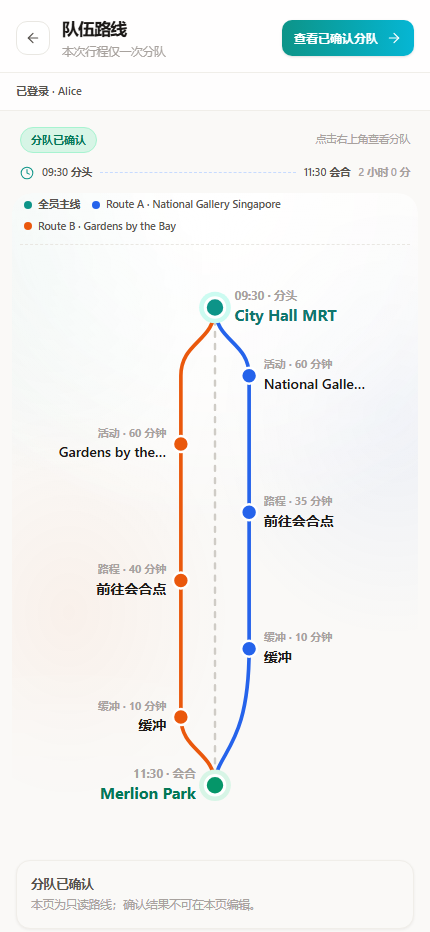
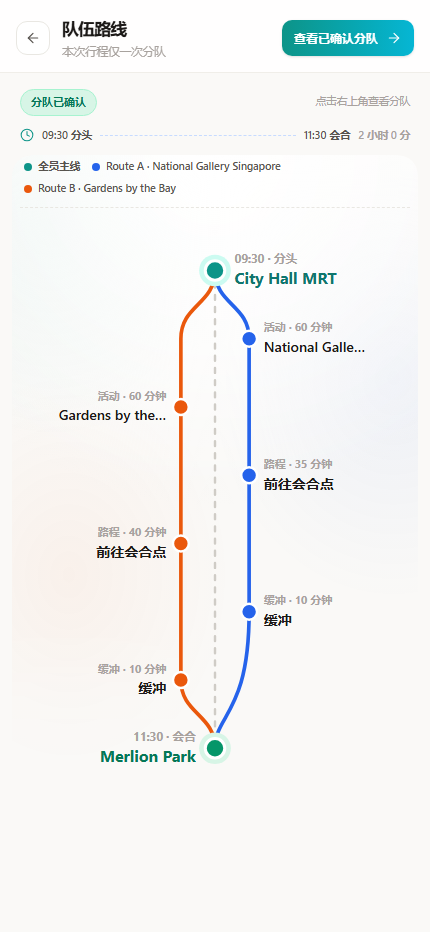
fix(us-086): polish split flow chrome and confirmed review

diff --git a/frontend/src/features/split/split-layout.tsx b/frontend/src/features/split/split-layout.tsx
@@ -2,7 +2,6 @@ import type { ReactNode } from "react"
 import { useNavigate } from "react-router-dom"
 import { StepBar } from "@/components/ui/step-bar"
 import { IconArrowLeft } from "@/components/icons"
-import { useAuth } from "@/features/auth/AuthProvider"
 
 /**
  * Split-flow app shell (ui-design-reference three-part skeleton: appbar -> body -> actionbar).
@@ -28,7 +27,6 @@ export function SplitLayout({
   children: ReactNode
 }) {
   const navigate = useNavigate()
-  const { account } = useAuth()
   return (
     <div className="flex min-h-screen justify-center bg-bg">
       <div className="flex h-screen w-full max-w-[440px] flex-col overflow-hidden bg-surface-2 shadow-[0_0_40px_rgba(28,25,23,0.06)]">
@@ -54,10 +52,6 @@ export function SplitLayout({
           </div>
           {step != null ? <StepBar step={step} className="mt-3" /> : null}
         </header>
-
-        <div className="flex-none border-b border-line-2 bg-surface/70 px-4 py-2.5 text-[11px] font-semibold text-ink-2">
-          已登录 · {account?.name ?? "账号"}
-        </div>
 
         <main className="flex-1 overflow-y-auto px-4 pt-4 pb-6">{children}</main>
 

diff --git a/frontend/src/features/split/screen-confirm.tsx b/frontend/src/features/split/screen-confirm.tsx
@@ -64,7 +64,7 @@ export function ScreenConfirm() {
       title="复核并确认分队"
       subtitle="服务端重校验通过后成对生效"
       step={4}
-      backTo={`/trips/${tripId}/split/timing`}
+      backTo={status === "confirmed" ? undefined : `/trips/${tripId}/split/timing`}
       right={
         <Badge variant={status === "confirmed" ? "ok" : status === "cancelled" ? "warn" : "brand"}>
           {status === "confirmed" ? "已确认" : status === "cancelled" ? "已取消" : "待确认"}

diff --git a/requirement-workspace/registry.md b/requirement-workspace/registry.md
@@ -124,4 +124,4 @@ REQ-019 的状态列与 change 路径已按归档更新；REQ-020/024/026 仍待
 | US-072 | 行程详情增加主线方案入口 | **Archived 2026-11-16；G1/G2/G3 全 Pass**：Delta 1 ADDED req / 5 scenarios（openspec validate valid，1 非阻塞 spec-length WARNING）；**G1 Pass**（IO Leo + SA Lumi）；P3 三件套 + 对齐自检 5/5 Pass；P4 仅命中 `TripDetails.tsx` +10 行，`npm run build`（tsc+vite）零错误；**E2E E1–E7 全 7/7 Pass**（`docs/feedback/e2e-us-072.md`）；local-verify **Overall Pass**（V1–V8，白名单 5/6，1 失败为环境类 PyYAML quirk；`20261116-210810`）；**G2 Pass**（VL ELIAN）；P5 living-merge 已合入 Living Spec（`trips` +1 requirement）+ change-summary；**G3 Pass**（SA Lumi）。代码合入 main 待人工按分支约定执行 | `openspec/changes/archive/2026-11-16-us-072-trip-detail-main-plan-entry/` | 纯前端入口故事：TripDetails.tsx 在 InvitationPanel 与分队规划 section 之间新增“查看主线方案”卡片链接到 `#/trips/{id}/main-plan`。无后端/路由/新页面/新依赖变更；复用 US-031-037 已归档的 main-itinerary 查看能力与权限。OQ-1（图标）P4 采用 `Icon name="sparkle"`。影响方向 extend。未触发远程 CI（纯前端极小改动，残余风险 accepted）。 |
 | REQ-009 | My Account、退出登录与注册（US-068 + US-069 + US-070） | **Archived 2026-11-17；G1 Pass**（IO Emily + SA Elian Jiang）；**G2 Pass（VL lumi）**；**G3 Pass（SA Elian Jiang）**；PR #101 merged `3334e7d`，PR #103 merged `37f4ceb`；US-068/069/070 看板卡 #40/#41/#43 Done | `openspec/changes/archive/2026-11-17-us-068-070-account-register/` | 单 change 覆盖三卡；auth 3 ADDED + 3 MODIFIED、app-shell 4 MODIFIED（60 场景）；无新迁移。用户 2026-11-17 UI 修正：注册页/我的页按参考稿；重复邮箱改为 `409 EMAIL_TAKEN` + 注册页弹窗（覆盖原隐私不披露 AC，接受邮箱枚举风险，IO 复核待补）。合并 origin/main 后后端 **279/279**、前端 build 绿、浏览器 E2E 18 Pass/1 Skipped、local-verify Pass；分支 `US-068-070-account-register`，PR #101（待合并）；local-verify + CI 均 Pass。US-068 卡仍指派 DENGLU-OOCL，P4 前交接；P5 承接 tech-stack 收敛。 |
 | US-082 | 修复返回按钮异常跳转与上下文丢失 | **Archived 2026-11-17；G1/G2/G3 Pass**（IO/SA/VL Johnson，2026-11-17）；PR #107 merged `ee8bf8f`；PR #108 merged `f7fe16d`；issue #105 closed、Project #2 Done | `openspec/changes/archive/2026-11-17-us-082-back-navigation/` | 路由修复：入会成功进入被接受的行程、分队/主线方案返回保留行程、登录 `?next=` 回原深链、登录/注册路由统一。`app-shell` 1 MODIFIED + 2 ADDED / 14 场景（含 2 条 Living 继承）；`validate --strict` valid；`validate --specs --strict` 8/8；AC 4/4 + DoV 5/5；横切扫描 BLOCKER 0。AC2/AC3 由 US-071 交付并在其合并后回归。零迁移、零依赖；后端 accept 响应 additive `tripId`。P3 atdd/质检 + P4 local-verify 均 Pass；`mvn -B test` 279/279、clean `npm run build` Green、CI runs 44012217311/44012221844/44012751115/44012755875 双绿、E2E（J1/S1/S2/S3/M1/A1/A3/A4 Pass；A2/D1/D2 残留）。tech-stack §20 + _LOG 已对账；G3/P5 lint 在归档目录。故事 issue #105，Iteration 1、Priority - Must。 |
-| US-086 | 队伍路线页展示分头到会合的完整路线 | **P1–P4 本地完成（2026-11-17）；G1 Pass**（IO Johnson + SA Elian Jiang）：requirements + DoR（BLOCKER 0 / blocking OQ 0）+ impact + proposal；delta `splits` 1 MODIFIED，`validate --strict` valid；AC 4/4 + DoV 5/5；consistency-lint Pass；cross-change BLOCKER 0 / WARNING 1；P3 ATDD/design/tasks + 对齐自检 Pass；P4 实现 `graph-model` + `team-route-graph` + Screen 11 重写，单测 12/12、typecheck/build 绿、后端 296/296、E2E E1–E9（E7 Partial）+ R1/R2；local-verify Pass；PR/CI/G2 待办 | `openspec/changes/us-086-team-route-graph/` | 纯前端重构 Screen 11：标题「队伍路线」+ 右上状态动作 + 只读 git 风格路线图（主线 / A 右 B 左 / 分头–会合 / 暂停段 / 空时长占位）；消费现有 `GET /split-draft` 与 `GET /main-plan`；分支由 GroupRoute 派生「活动 → 路程 → 缓冲」；confirmed 保持只读；不做节点弹层。证据：`requirements/US-086.md`、`analysis/us-086-dor.md`、`deep-dive.md`（无，纯前端）、`impact-brief.md` §US-086、`intents/2026-11-17-us-086.md`。 |
+| US-086 | 队伍路线页展示分头到会合的完整路线 | **P1–P4 本地完成（2026-11-17）；G1 Pass**（IO Johnson + SA Elian Jiang）：requirements + DoR（BLOCKER 0 / blocking OQ 0）+ impact + proposal；delta `splits` 1 MODIFIED，`validate --strict` valid；AC 4/4 + DoV 5/5；consistency-lint Pass；cross-change BLOCKER 0 / WARNING 1；P3 ATDD/design/tasks + 对齐自检 Pass；P4 实现 `graph-model` + `team-route-graph` + Screen 11 重写，单测 12/12、typecheck/build 绿、后端 296/296、E2E E1–E9（E7 Partial）+ R1/R2；final local-verify Pass（20261117-152912）；chrome 收敛（身份条/confirmed 返回/提示卡，E2E E10–E13）；PR #119 open，CI/G2 待办 | `openspec/changes/us-086-team-route-graph/` | 纯前端重构 Screen 11：标题「队伍路线」+ 右上状态动作 + 只读 git 风格路线图（主线 / A 右 B 左 / 分头–会合 / 暂停段 / 空时长占位）；消费现有 `GET /split-draft` 与 `GET /main-plan`；分支由 GroupRoute 派生「活动 → 路程 → 缓冲」；confirmed 保持只读；不做节点弹层。证据：`requirements/US-086.md`、`analysis/us-086-dor.md`、`deep-dive.md`（无，纯前端）、`impact-brief.md` §US-086、`intents/2026-11-17-us-086.md`。 |

diff --git a/docs/ai4se-plugins/20261117-152912-local-verify-report.md b/docs/ai4se-plugins/20261117-152912-local-verify-report.md
@@ -1,0 +1,101 @@
+# Local Verify Report: us-086-team-route-graph
+
+**Date:** 2026-11-17 (timezone: +0800)
+**Root:** C:/Users/JIANGEL5/code/bootcamp/GoGo
+**Scope:** local+evidence
+**Change id:** us-086-team-route-graph
+**Branch:** US-086-team-route-graph（最终复验，含 P4 chrome 修订）
+
+## Summary
+
+| Dimension | Status |
+|-----------|--------|
+| Build | Pass |
+| Static scan | Pass |
+| Code review | Pass |
+| Evidence (OpenSpec) | Pass |
+| **Overall** | Pass |
+
+**PR gate:** Pass — 可更新 PR #119。远程 CI 由 `/sdd:pipeline-report phase=ci` 记录。
+
+## Local commands
+
+| Command | Source | Exit | Summary |
+|---------|--------|------|---------|
+| 6 条 static whitelist | docs/feedback/verification-commands.md | 0 | 无硬编码/ORM/H2/内网 registry；CI 两个 job 与触发正确 |
+| `cd frontend && npm run test:unit` | agent（ATDD U1–U4） | 0 | 12/12 Pass |
+| `cd frontend && npm run typecheck` | agent | 0 | tsc 无错误 |
+| `cd frontend && npm run build` | agent | 0 | Vite build 绿（仅既有 chunk-size 提示） |
+| `cd backend && mvn -B test` | agent（回归） | 0 | 296/296 Pass |
+| `openspec validate us-086-team-route-graph --strict` | agent | 0 | valid |
+
+## Code-review highlights
+
+- 分队 tab 直接指向 `/trips/{currentTripId}/split`；`#/split`「分队规划」占位页和行程详情旧区块已删除。
+- `SplitLayout` 移除身份条，11–15 屏统一生效；`ScreenConfirm` 在 confirmed 只读态不渲染左上返回；confirmed 队伍路线页去掉重复提示卡。
+- `graph-model.ts` 纯函数 + `team-route-graph.tsx` 只读 SVG；节点无点击/handler；空时长「待补全」。
+- 无后端、迁移、依赖变更；未改 `app.css`。
+
+## Evidence checklist
+
+| ID | Check | Result | Mark | Notes |
+|----|-------|--------|------|-------|
+| V1 | Task completion | Pass | [fact] | 28/31 checked；剩余 6.3（归档对账）、7.3（PR/CI）、7.4（G2/归档）为本报告之后的流程项 |
+| V2 | Requirement coverage | Pass | [fact] | `splits` MODIFIED 场景覆盖标题/入口、无草稿、边界/路线状态、状态动作、身份条/返回按钮 |
+| V3 | Scenario coverage | Pass | [fact] | E1–E13 在 `docs/feedback/e2e-us-086.md`；E7/R1 Partial 见风险 |
+| V4 | Requirement↔impl mapping | Pass | [fact] | `screen-start.tsx`、`graph-model.ts`、`team-route-graph.tsx`、`TabBar.tsx`、`App.tsx`、`TripDetails.tsx`、`split-layout.tsx`、`screen-confirm.tsx` |
+| V5 | Spec drift | Pass | [fact] | 无弹层、无 A/B 虚构、confirmed 只读、无中间页 |
+| V6 | Design follow-through | Pass | [fact] | DD1–DD11 均有实现对应 |
+| V7 | Code pattern fit | Pass | [inference] | 与 split 既有屏的 Query/Tailwind/token 一致；P5 复核 |
+| V8 | Necessity / anti-creep | Pass | [fact] | 变更文件均可追溯到 tasks 组 1–5 |
+
+## Evidence slots (E1 / E2 / E3)
+
+| Slot | Status | Source |
+|------|--------|--------|
+| E1 Machine | Pass（本地） | whitelist 6/6 + `mvn -B test` 296/296 + frontend 12/12/typecheck/build |
+| E2 AI | Pass | 本报告 + `dov-ac-review.md` + E2E 文档 |
+| E3 Human | Pending | G2 待具名 VL |
+
+## Five-question map
+
+| Q | Maps to | Status |
+|---|---------|--------|
+| Q1 Complete? | V1–V3 | ✅ |
+| Q2 Correct? | V4–V5 | ✅ |
+| Q3 Coherent? | V6–V7 | ✅ |
+| Q4 Necessary only? | V8 | ✅ |
+| Q5 Risk controllable? | residual + red lines | ⚠（E7/R1 见残余风险） |
+
+## Findings
+
+### CRITICAL
+
+无。
+
+### WARNING
+
+| # | Finding | Mark | Location | Suggestion |
+|---|---------|------|----------|------------|
+| 1 | E7 未模拟断网/5xx，仅覆盖 403/404 | [fact] | `docs/feedback/e2e-us-086.md` | ErrorState 复用既有重试；G2 前可补手工网络失败检查 |
+| 2 | R1 只验证 12–15 屏渲染，未重复完整生成/确认动作链 | [fact] | 同上 | 既有屏未改；PR CI + 后续回归覆盖 |
+
+### SUGGESTION
+
+| # | Finding | Mark | Location | Suggestion |
+|---|---------|------|----------|------------|
+| 1 | Vite 构建仍有既有 >500kB chunk 提示 | [fact] | build log | 非本 change 引入 |
+| 2 | 全页深链首次打开偶发 AuthProvider 竞态落到 `/#/` | [uncertain] | 本 session 一次 | 既有登录守卫行为；另立 story 排查 |
+
+## Residual risks
+
+| # | Risk | Why open | Mitigation |
+|---|------|----------|------------|
+| 1 | 多日行程仅单时间线 | OQ-2 deferred | accepted；后续按天分段另立 |
+| 2 | 有/无草稿主线来源不同 | 既有契约 | mitigated：分别格式化 |
+| 3 | `GroupRoute` 无逐节点时刻/地点/费用 | 用户裁决不做弹层 | accepted |
+| 4 | 远程 CI 未跑 | PR 待更新 | tracking：PR 后 pipeline-report |
+
+## Waiver
+
+N/A — no waiver

diff --git a/requirement-workspace/handoff.md b/requirement-workspace/handoff.md
@@ -28,7 +28,7 @@
 
 | REQ-008 (US-066) | `openspec/changes/archive/2026-11-16-us-066-log-in/` | 2026-11-16 | Renumbered from REQ-006 (main took REQ-006 for US-042). Archived 2026-11-16; Living Spec gained `auth` and updated trips/invitations/app-shell/main-itinerary/splits. PR #47 merged `135d3df`; G1 Pass; G2 Pass (VL lumi); G3 Pass (SA Elian Jiang). KB update: Skipped (documented baseline). |
 | REQ-009 (US-068 + US-069 + US-070) | `openspec/changes/archive/2026-11-17-us-068-070-account-register/` | 2026-11-16 | P1–P4 complete; G1 Pass (IO Emily + SA Elian Jiang). One change: My Account/name edit (US-068), logout (US-069), registration (US-070). Delta: auth 3 ADDED + 3 MODIFIED, app-shell 4 MODIFIED (60 scenarios); DoV/lint Pass; design D1–D16; tasks 40/44 (remaining P5/process). User 2026-11-17 UI amendments: registration reference (confirm password, 8-char UI minimum, success/duplicate dialogs), My Account reference, and explicit duplicate prompt (`409 EMAIL_TAKEN`, overriding the earlier non-disclosure AC; email-enumeration risk accepted, IO re-confirmation pending). Verification on merged main: backend **279/279**, frontend build green, browser E2E 18 Pass / 1 Skipped (`docs/feedback/e2e-us-068-070.md`), local-verify **Pass** (`docs/ai4se-plugins/20261117-091109-local-verify-report.md`). PR #101 merged `3334e7d`; **G2 Pass (VL lumi)**; change archived 2026-11-17 with Living Spec + tech-stack §19; **G3 Pass (SA Elian Jiang)**; PR #103 merged `37f4ceb`; cards #40/#41/#43 Done. Non-blocking: IO re-confirmation of the duplicate-email disclosure override; registration rate limiting is a deployment exception. |
-| US-086 (issue #113) | `openspec/changes/us-086-team-route-graph/` | 2026-11-17 | **P1 + P2 完成；G1 Pass**（IO Johnson + SA Elian Jiang）：`requirements/US-086.md`、`analysis/us-086-dor.md`（BLOCKER 0 / blocking OQ 0）、`impact-brief.md` §US-086、`intents/2026-11-17-us-086.md`、`proposal.md`；delta `splits` 1 MODIFIED / 4 条新场景（`validate --strict` valid）；`dov-ac-review.md` AC 4/4 + DoV 5/5；`consistency-lint.md` Pass；`cross-change-scan.md` BLOCKER 0 / WARNING 1；纯前端、零迁移；节点详情弹层移出范围；P3 待启动。 |
+| US-086 (issue #113) | `openspec/changes/us-086-team-route-graph/` | 2026-11-17 | **P1 + P2 完成；G1 Pass**（IO Johnson + SA Elian Jiang）：`requirements/US-086.md`、`analysis/us-086-dor.md`（BLOCKER 0 / blocking OQ 0）、`impact-brief.md` §US-086、`intents/2026-11-17-us-086.md`、`proposal.md`；delta `splits` 1 MODIFIED / 4 条新场景（`validate --strict` valid）；`dov-ac-review.md` AC 4/4 + DoV 5/5；`consistency-lint.md` Pass；`cross-change-scan.md` BLOCKER 0 / WARNING 1；纯前端、零迁移；节点详情弹层移出范围；P3/P4 完成；final local-verify Pass（20261117-152912）；PR #119 open，CI/G2 待办。 |
 
 ## P0 note — US-049 / US-050 (2026-11-16)
 

diff --git a/requirement-workspace/requirements/US-086.md b/requirement-workspace/requirements/US-086.md
@@ -39,6 +39,7 @@
 - 分支节点由现有字段派生：活动（`activityName` + `activityMinutes`）、路程（`travelLegsMinutes` 求和）、缓冲（`bufferMinutes`）；为空时显示「时长待补全」。
 - 右上动作按状态分支：无草稿/已取消 → 发起（或替换）草稿后进入边界；`active` → 进入边界；`confirmed` → 进入只读复核页。
 - 入口收敛：底部「分队」tab 直接打开当前行程的 `/trips/{id}/split` 队伍路线页；移除 App 内的「分队规划」占位页与行程详情中的「分队规划」区块。
+- 拆分流程 chrome：移除 `SplitLayout` 的「已登录 · 姓名」身份条；`confirmed` 复核页不显示左上角返回按钮，并移除 confirmed 状态底部重复的「分队已确认」提示卡。
 - 加载、权限（403）、行程不存在（404）、读取失败（可重试）、无已确认主线、路线待生成等状态。
 - 返回入口继续保留行程上下文（沿用 US-082 的返回约定）。
 
@@ -65,6 +66,7 @@
 | AC6 | 无已确认主线 | 显示前置条件说明，分队动作不可用；不渲染其他行程的路线 |
 | AC7 | 非成员 / 行程不存在 / 读取失败 | 分别显示权限、缺失、可重试错误；不泄露其他行程数据 |
 | AC8 | 查看任意节点 | 节点只读；不打开弹层，不展示任务/费用/地点 |
+| AC9 | 拆分流程页面 chrome | 分队流程页（11–15 屏）不显示「已登录 · 姓名」身份条；confirmed 复核页不显示左上返回按钮；confirmed 队伍路线页不显示重复提示卡 |
 
 ## Constraints
 

diff --git a/docs/ai4se-plugins/20261117-152711-local-verify-report-checkpoints.md b/docs/ai4se-plugins/20261117-152711-local-verify-report-checkpoints.md
@@ -1,0 +1,39 @@
+# Checkpoint log — local-verify-report
+
+- skill: skill.verify.local-verify-report
+- command: /sdd:local-verify-report
+- root: /c/Users/JIANGEL5/code/bootcamp/GoGo
+- started_at: 2026-11-17T15:27:11+0800
+- host_agent: unknown
+
+## Checkpoints
+
+| id | topic | choice | rationale | status |
+|----|-------|--------|-----------|--------|
+| C1 | scope | local+evidence | skipped-preanswered：最终复验，change 工件齐全 | skipped-preanswered |
+| C2 | command-source | docs/ai4se-plugins/20261117-152713-local-verify-commands.txt | skipped-preanswered：probe whitelist | skipped-preanswered |
+
+## Probe
+
+- summary: whitelist 6 条 static commands；change artifacts（proposal/design/tasks/specs）全部 FOUND
+- whitelist_empty: no
+- change_artifacts: found
+- commands_file: docs/ai4se-plugins/20261117-152713-local-verify-commands.txt
+
+## Run
+
+- commands_attempted: 6
+- commands_failed: 0
+- runner_log: docs/ai4se-plugins/20261117-152740-local-verify-run.log
+
+## Report
+
+- mode: persisted
+- report_path: docs/ai4se-plugins/20261117-152912-local-verify-report.md
+- overall: Pass
+- waiver: N/A
+
+## Next
+
+- suggested (optional): /sdd:pr-submit (only on Pass, or Fail with complete human-signed Waiver)
+- on Fail without Waiver: hard-stop — do not call /sdd:pr-submit

diff --git a/docs/feedback/e2e-us-086.md b/docs/feedback/e2e-us-086.md
@@ -18,6 +18,10 @@
 | E7 | 权限 / 缺失 / 失败 | **Partial** | 404 trip 999 → `TRIP_NOT_FOUND` + 重试；Eve 访问 trip 1 → `NOT_A_MEMBER` + 重试；未模拟断网/5xx |
 | E8 | 节点只读 | **Pass** | 路线图内 `[onclick]` / `[role=button]` 数量 = 0；无弹层、无任务/费用/地点 |
 | E9 | 已取消（trip 2） | **Pass** | 「上次草稿已取消」；仅 4 个主线节点；图例无 A/B；「发起分队」可替换 |
+| E10 | 分队 tab 直达 | **Pass** | `/#/trips/1` 的分队 tab href = `/trips/1/split`；点击后直接进入队伍路线，无「分队规划」中间页 |
+| E11 | 拆分流程 chrome | **Pass** | `/split`、`/split/confirm` 均无「已登录 · 姓名」身份条 |
+| E12 | confirmed 复核页 | **Pass** | header 无返回按钮；顶部「已确认」；底部「返回分队首页」仍可用 |
+| E13 | 行程详情旧入口 | **Pass** | `/#/trips/1` 不再出现「分队规划」区块；confirmed 队伍路线页无重复「本页为只读路线」提示卡 |
 | R1 | 分队 12–15 屏回归 | **Partial** | `/split/boundaries`、`/split/routes`、`/split/timing`、`/split/confirm` 均正常渲染；未重复执行完整生成/确认动作链 |
 | R2 | 返回上下文（US-082） | **Pass** | 入口页返回 → `/#/trips/1` 行程详情 |
 

diff --git a/openspec/changes/us-086-team-route-graph/atdd-design.md b/openspec/changes/us-086-team-route-graph/atdd-design.md
@@ -24,6 +24,9 @@
 | E7 | 权限 / 行程缺失 / 读取失败 | 403 / 404 / 可重试错误；无跨行程泄漏 |
 | E8 | 节点只读 | 点击节点不打开弹层、无任务/费用/地点 |
 | E9 | 已取消草稿 | 回主线视图，不残留 A/B |
+| E10 | 分队 tab 入口 | 从任意 shell 页点击「分队」→ 直接打开当前行程 `/trips/{id}/split`，无「分队规划」中间页 |
+| E11 | 拆分流程 chrome | 11–15 屏均不显示「已登录 · 姓名」身份条 |
+| E12 | confirmed 复核页 | 不显示左上返回按钮；底部「返回分队首页」仍可用 |
 | R1 | 分队 12–15 屏回归 | 边界/路线/时间窗/确认页面仍可进入并完成既有动作 |
 | R2 | 返回上下文 | 返回行程详情仍解析当前 trip（US-082） |
 
@@ -62,6 +65,7 @@
 | 不虚构 A/B | E1/E3/E9：无路线或无边界时不出现 A/B 活动名 |
 | 不做多日分段 | 页面只有一个时间线，无日期切换控件 |
 | 不改变分队规则 | E6/R1：confirmed 无发起入口；已取消可替换；唯一性仍由后端拒绝 |
+| 无中间页 / 无身份条 / 只读无返回 | E10–E12：tab 直达、页面无「已登录 · 姓名」、confirmed 复核页无左上返回 |
 
 ## 7. NFR 测试
 

diff --git a/openspec/changes/us-086-team-route-graph/specs/splits/spec.md b/openspec/changes/us-086-team-route-graph/specs/splits/spec.md
@@ -67,6 +67,7 @@
 - **WHEN** 页面渲染
 - **THEN** appbar 标题为「队伍路线」，右上角为唯一的分队动作，页面不出现「智能分队」标题与底部发起按钮
 - **AND** 底部「分队」tab SHALL 直接打开当前行程的本页；App 内的「分队规划」中间页与行程详情中的「分队规划」区块 SHALL NOT 再渲染
+- **AND** 分队流程页面 SHALL NOT 显示「已登录 · 姓名」身份条；`confirmed` 复核页 SHALL NOT 显示左上返回按钮
 - **AND** 页面以只读、按时间排序的路线图展示已确认主线；存在草稿时展示已保存的分头/会合边界与已生成的 A/B 路线
 - **AND** 节点仅展示时间、名称、分组与时长；点击节点不打开详情弹层，不展示逐节点任务、费用或地点
 - **AND** loading、无已确认主线、无权限、行程缺失与读取失败状态均可观察，且不泄露其他行程数据

diff --git a/openspec/changes/us-086-team-route-graph/design.md b/openspec/changes/us-086-team-route-graph/design.md
@@ -107,6 +107,12 @@
 
 不改 `backend/`、`SecurityConfig`、DTO、迁移与 `package.json`；只消费既有读接口。
 
+### DD11 拆分流程 chrome（P4 修订 2026-11-17）
+
+- `SplitLayout` 删除「已登录 · 姓名」身份条，只保留 appbar / stepbar / body / footer；该布局被 11–15 屏共享，因此一次移除全流程生效。
+- `ScreenConfirm` 在 `confirmed` 只读态不传 `backTo`，左上返回按钮不渲染；待确认/已取消仍保留返回，底部「返回分队首页」保留。
+- `ScreenStart` 的 `confirmed` 只读态不再渲染重复的「分队已确认」提示卡；顶栏状态徽章已表达该状态。
+
 ## 数据与配置
 
 无新表、无新字段、无新配置。
